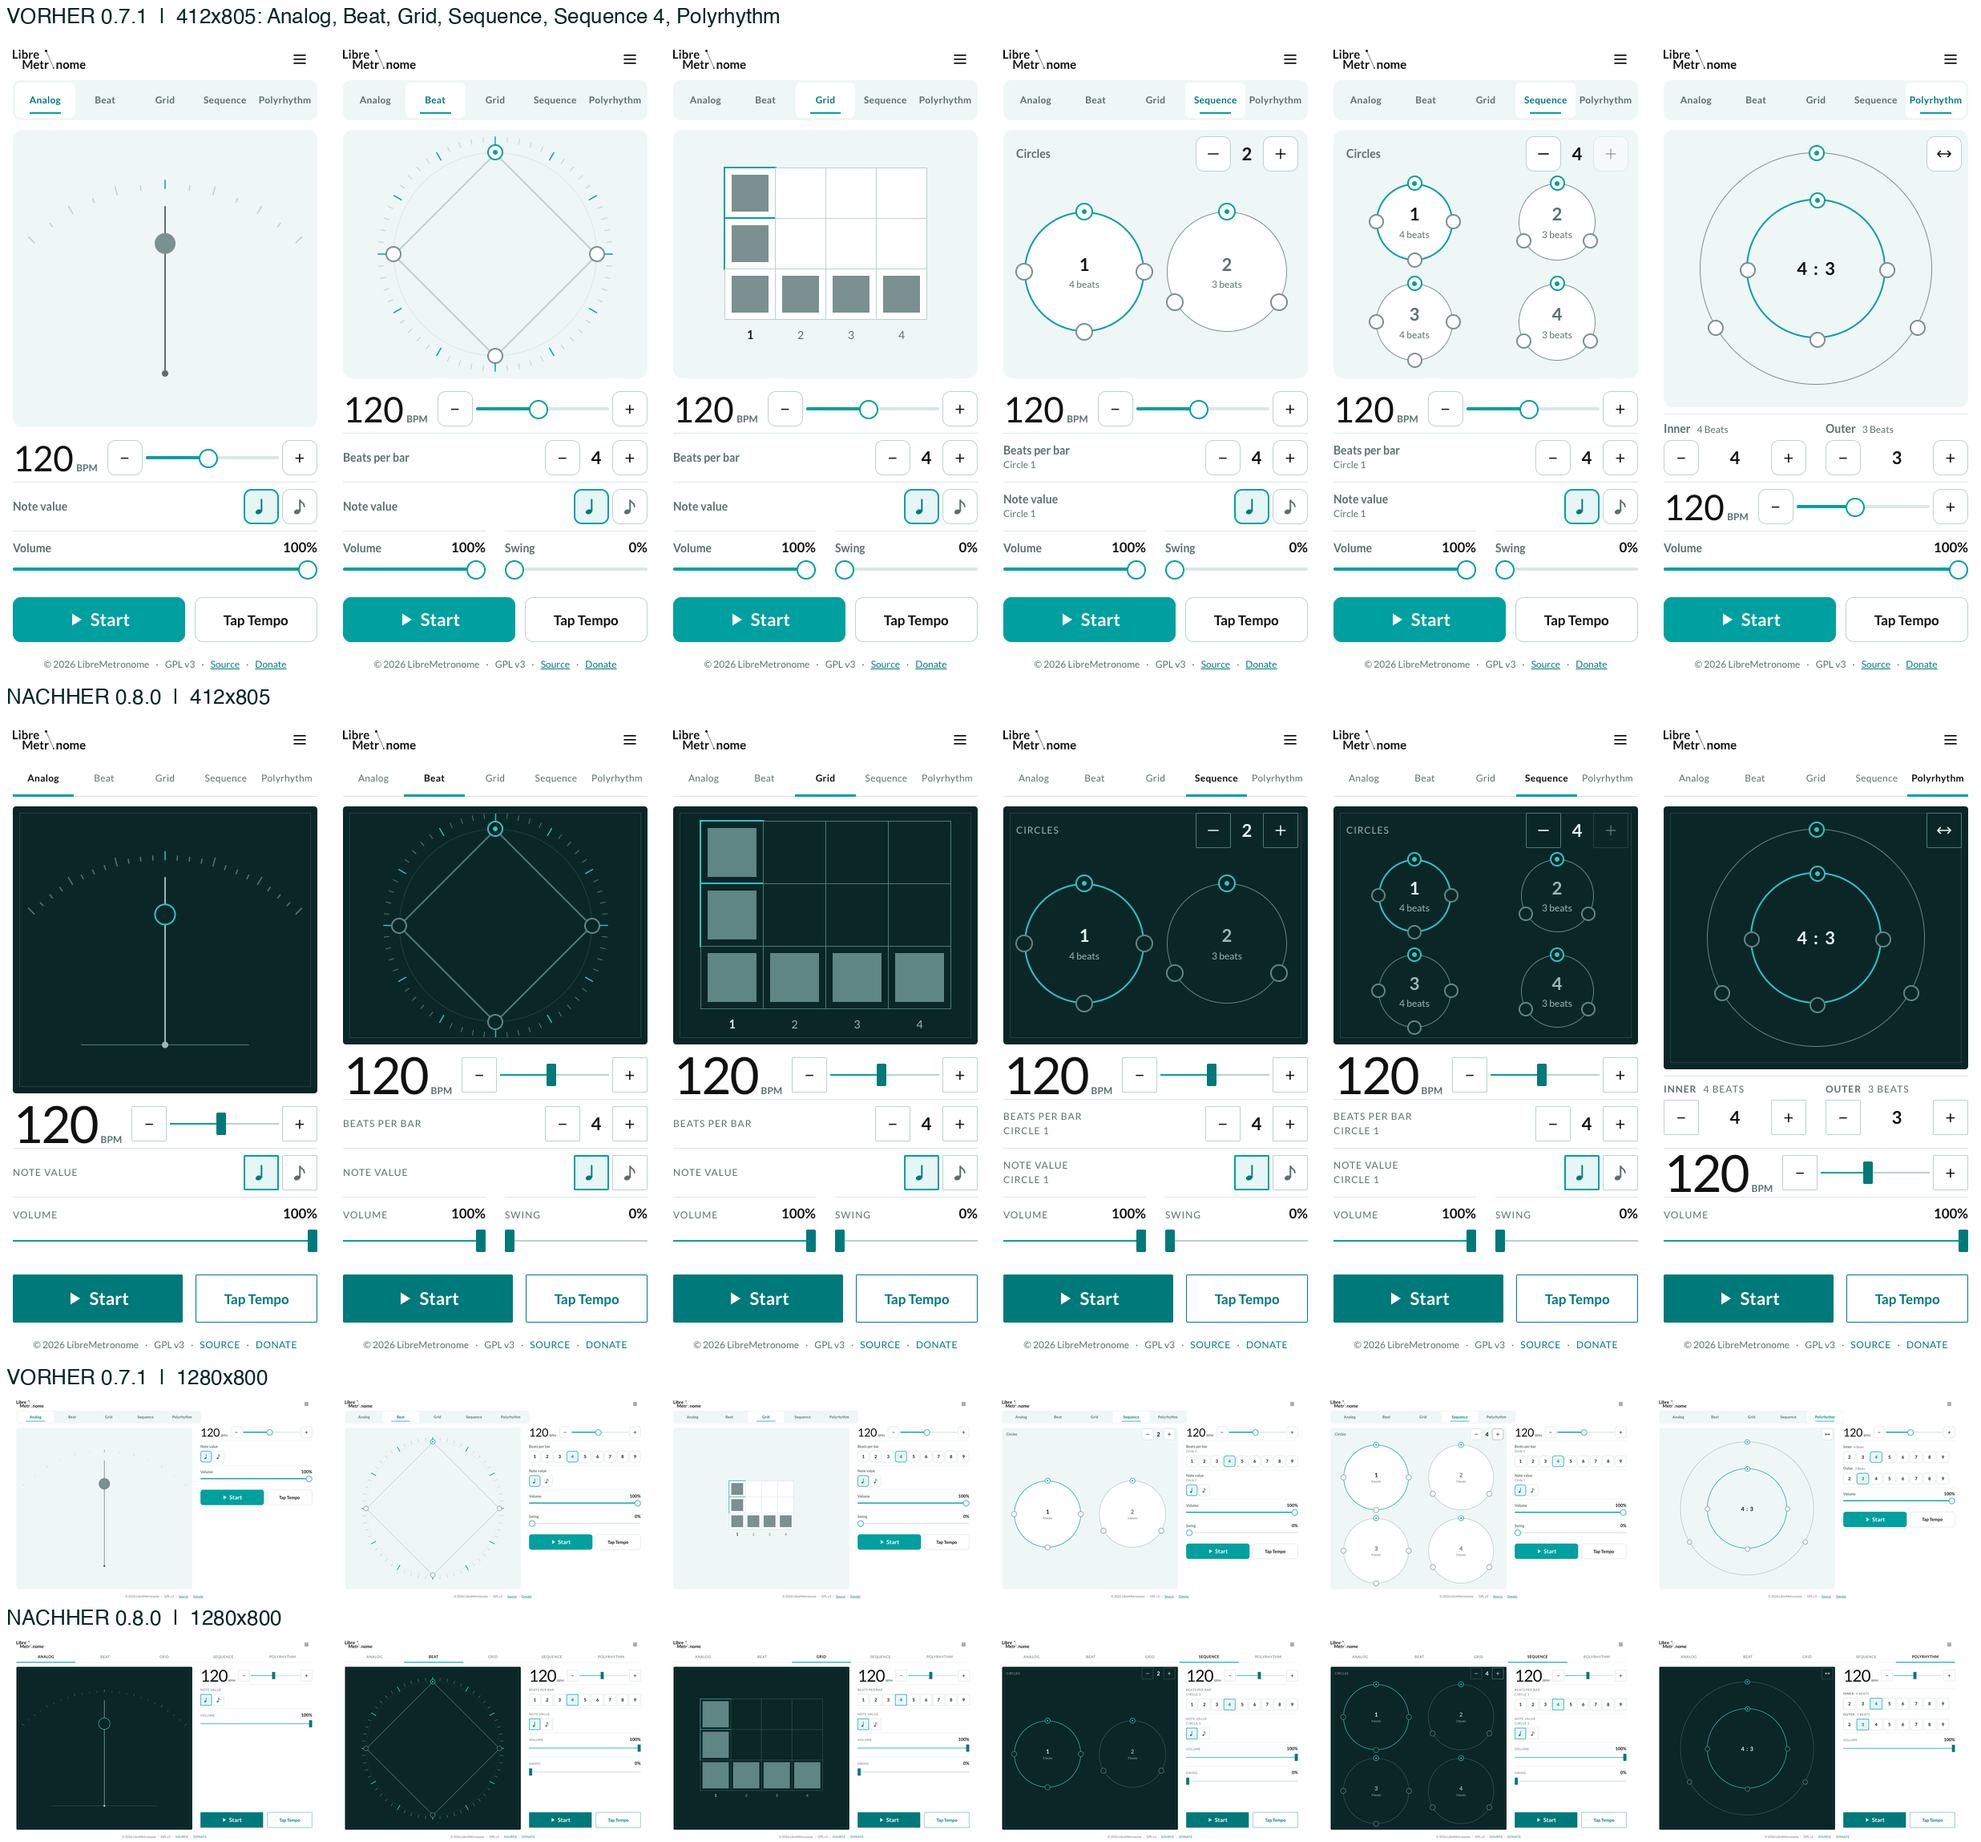
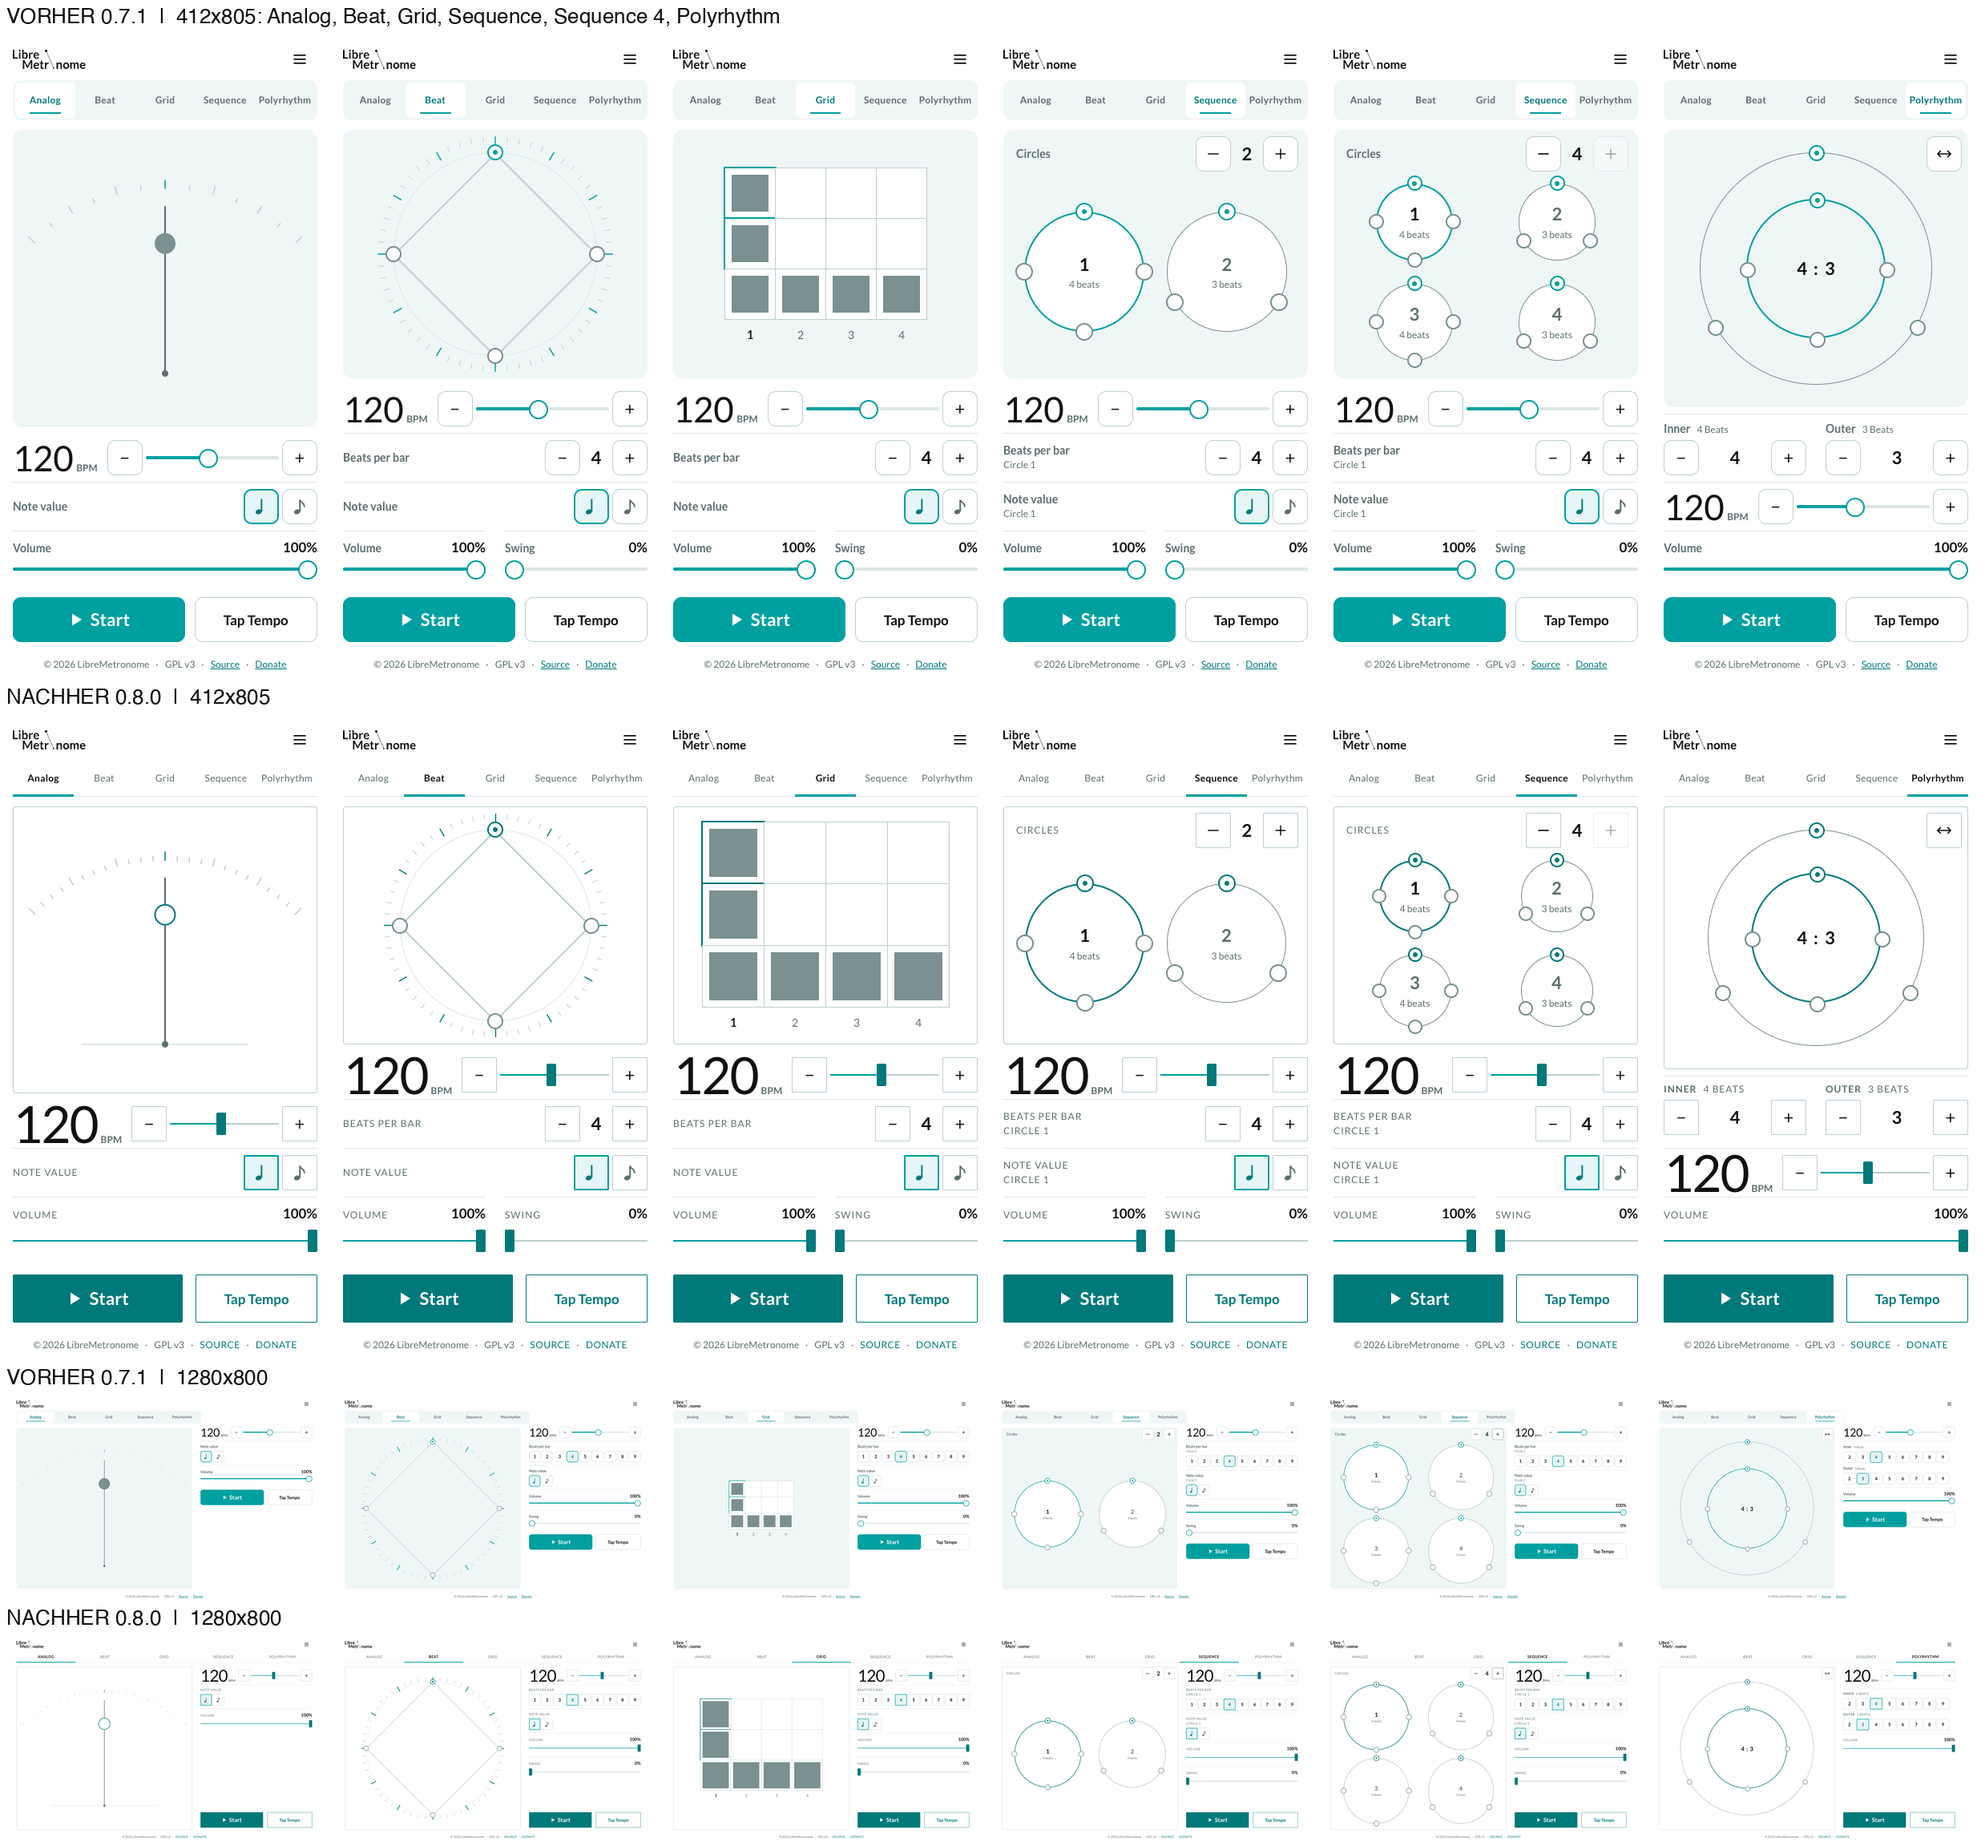
Design system: light plate, refreshed before/after overview

diff --git a/docs/design-system.md b/docs/design-system.md
@@ -4,13 +4,14 @@ One calm, precise look for every output: web (desktop and phone browser),
 the paid, ad-free, offline Android app, and the iOS/macOS shell. One token
 base, one set of components; only the arrangement changes with the width.
 
-Updated October 24, 2026 (build 0.8.0, design round 2: "Linienblatt" with a dark dial plate).
+Updated October 24, 2026 (build 0.8.0, design round 2: "Linienblatt"; the
+first draft with a dark plate was dropped after the owner's feedback).
 
 ## Principles
 
 1. **A measuring instrument.** A light page of hairlines and small uppercase
-   labels, with the visualisation on one dark teal-black *dial plate*. No
-   framed cards.
+   labels; the visualisation sits on a plate outlined by one hairline. No
+   dark surfaces, no tinted cards.
 2. **One colour: teal.** It marks the active state, the current beat, accented
    beats (ring) and the Start button. There is no gold. Neutrals carry a faint
    teal tint so the screen feels warm, not sterile.
@@ -22,7 +23,7 @@ Updated October 24, 2026 (build 0.8.0, design round 2: "Linienblatt" with a dark
    760 px). Text is never below 12 px.
 6. **Character from proportion and line.** The BPM numeral is large (64 px) in
    the regular cut; keys are square (2 px); labels are small, uppercase and
-   tracked; the plate carries a hairline frame, a 60-tick dial (Beat) or a
+   tracked; the plate carries a hairline outline, a 60-tick dial (Beat) or a
    3.75-degree scale with baseline (Analog). The current beat is a larger
    filled mark with a halo; a calm 120 ms transition, none under reduced motion.
 
@@ -39,17 +40,17 @@ Updated October 24, 2026 (build 0.8.0, design round 2: "Linienblatt" with a dark
 | Accent | `--accent` | `#00a0a0` (fills, current beat, thumb) |
 | Accent as text | `--accent-ink` | `#00797a` (5.2:1) |
 | Type scale | `--fs-1` … `--fs-5` | 12 / 14 / 17 / 22 / 64 px (large text 14 / 17 / 20 / 24 / 72; 56 on short screens) |
-| Dial plate | `--dial-bg`, `--dial-ink`, `--dial-ink-2`, `--dial-ink-3`, `--dial-line`, `--dial-line-strong`, `--dial-accent`, `--dial-focus` | `#0b2626`, `#e8f4f4`, `#9bb7b7`, `#5f8585`, `#1c4141`, `#4a7a7a`, `#2ec4c4`, `#7ee6e6` |
+| Dial plate | `--dial-bg`, `--dial-ink`, `--dial-ink-2`, `--dial-ink-3`, `--dial-line`, `--dial-line-strong`, `--dial-accent`, `--dial-focus` | `#ffffff`, `#111111`, `#5c6e6e`, `#7b9090`, `#dbe7e7`, `#bdd0d0`, `#00797a`, `#00797a` |
 | Radius | `--r-control`, `--r-surface` | 2 px (square keys), 4 px (plate) |
 | Space | `--sp-1` … `--sp-6` | 4 / 8 / 12 / 16 / 24 / 32 px |
 | Touch | `--touch` | 44 px (40 px when the window is shorter than 760 px) |
 
 **The dial plate.** `.viz-card`, the training strip and the controls laid over
 the plate (circle stepper, ratio, swap, Accelerate) re-map the normal token
-names (`--bg`, `--ink`, `--accent`, ...) to the `--dial-*` values, so every
-component works on both surfaces without its own colour. Accessibility modes
-override the `--dial-*` tokens too (high contrast: black plate, white lines,
-cyan accent; colour blind: Okabe-Ito sky blue / orange; monochrome: white).
+names (`--bg`, `--ink`, `--accent`, ...) to the `--dial-*` values. The plate is
+white today, but it stays a separate token set so it can change on its own.
+Accessibility modes override the `--dial-*` tokens too (high contrast: black
+plate, white lines, cyan accent; colour blind and monochrome follow the accent).
 Canvas drawing (Analog) reads its colours from the canvas element, so it picks
 up the plate and the modes.
 
